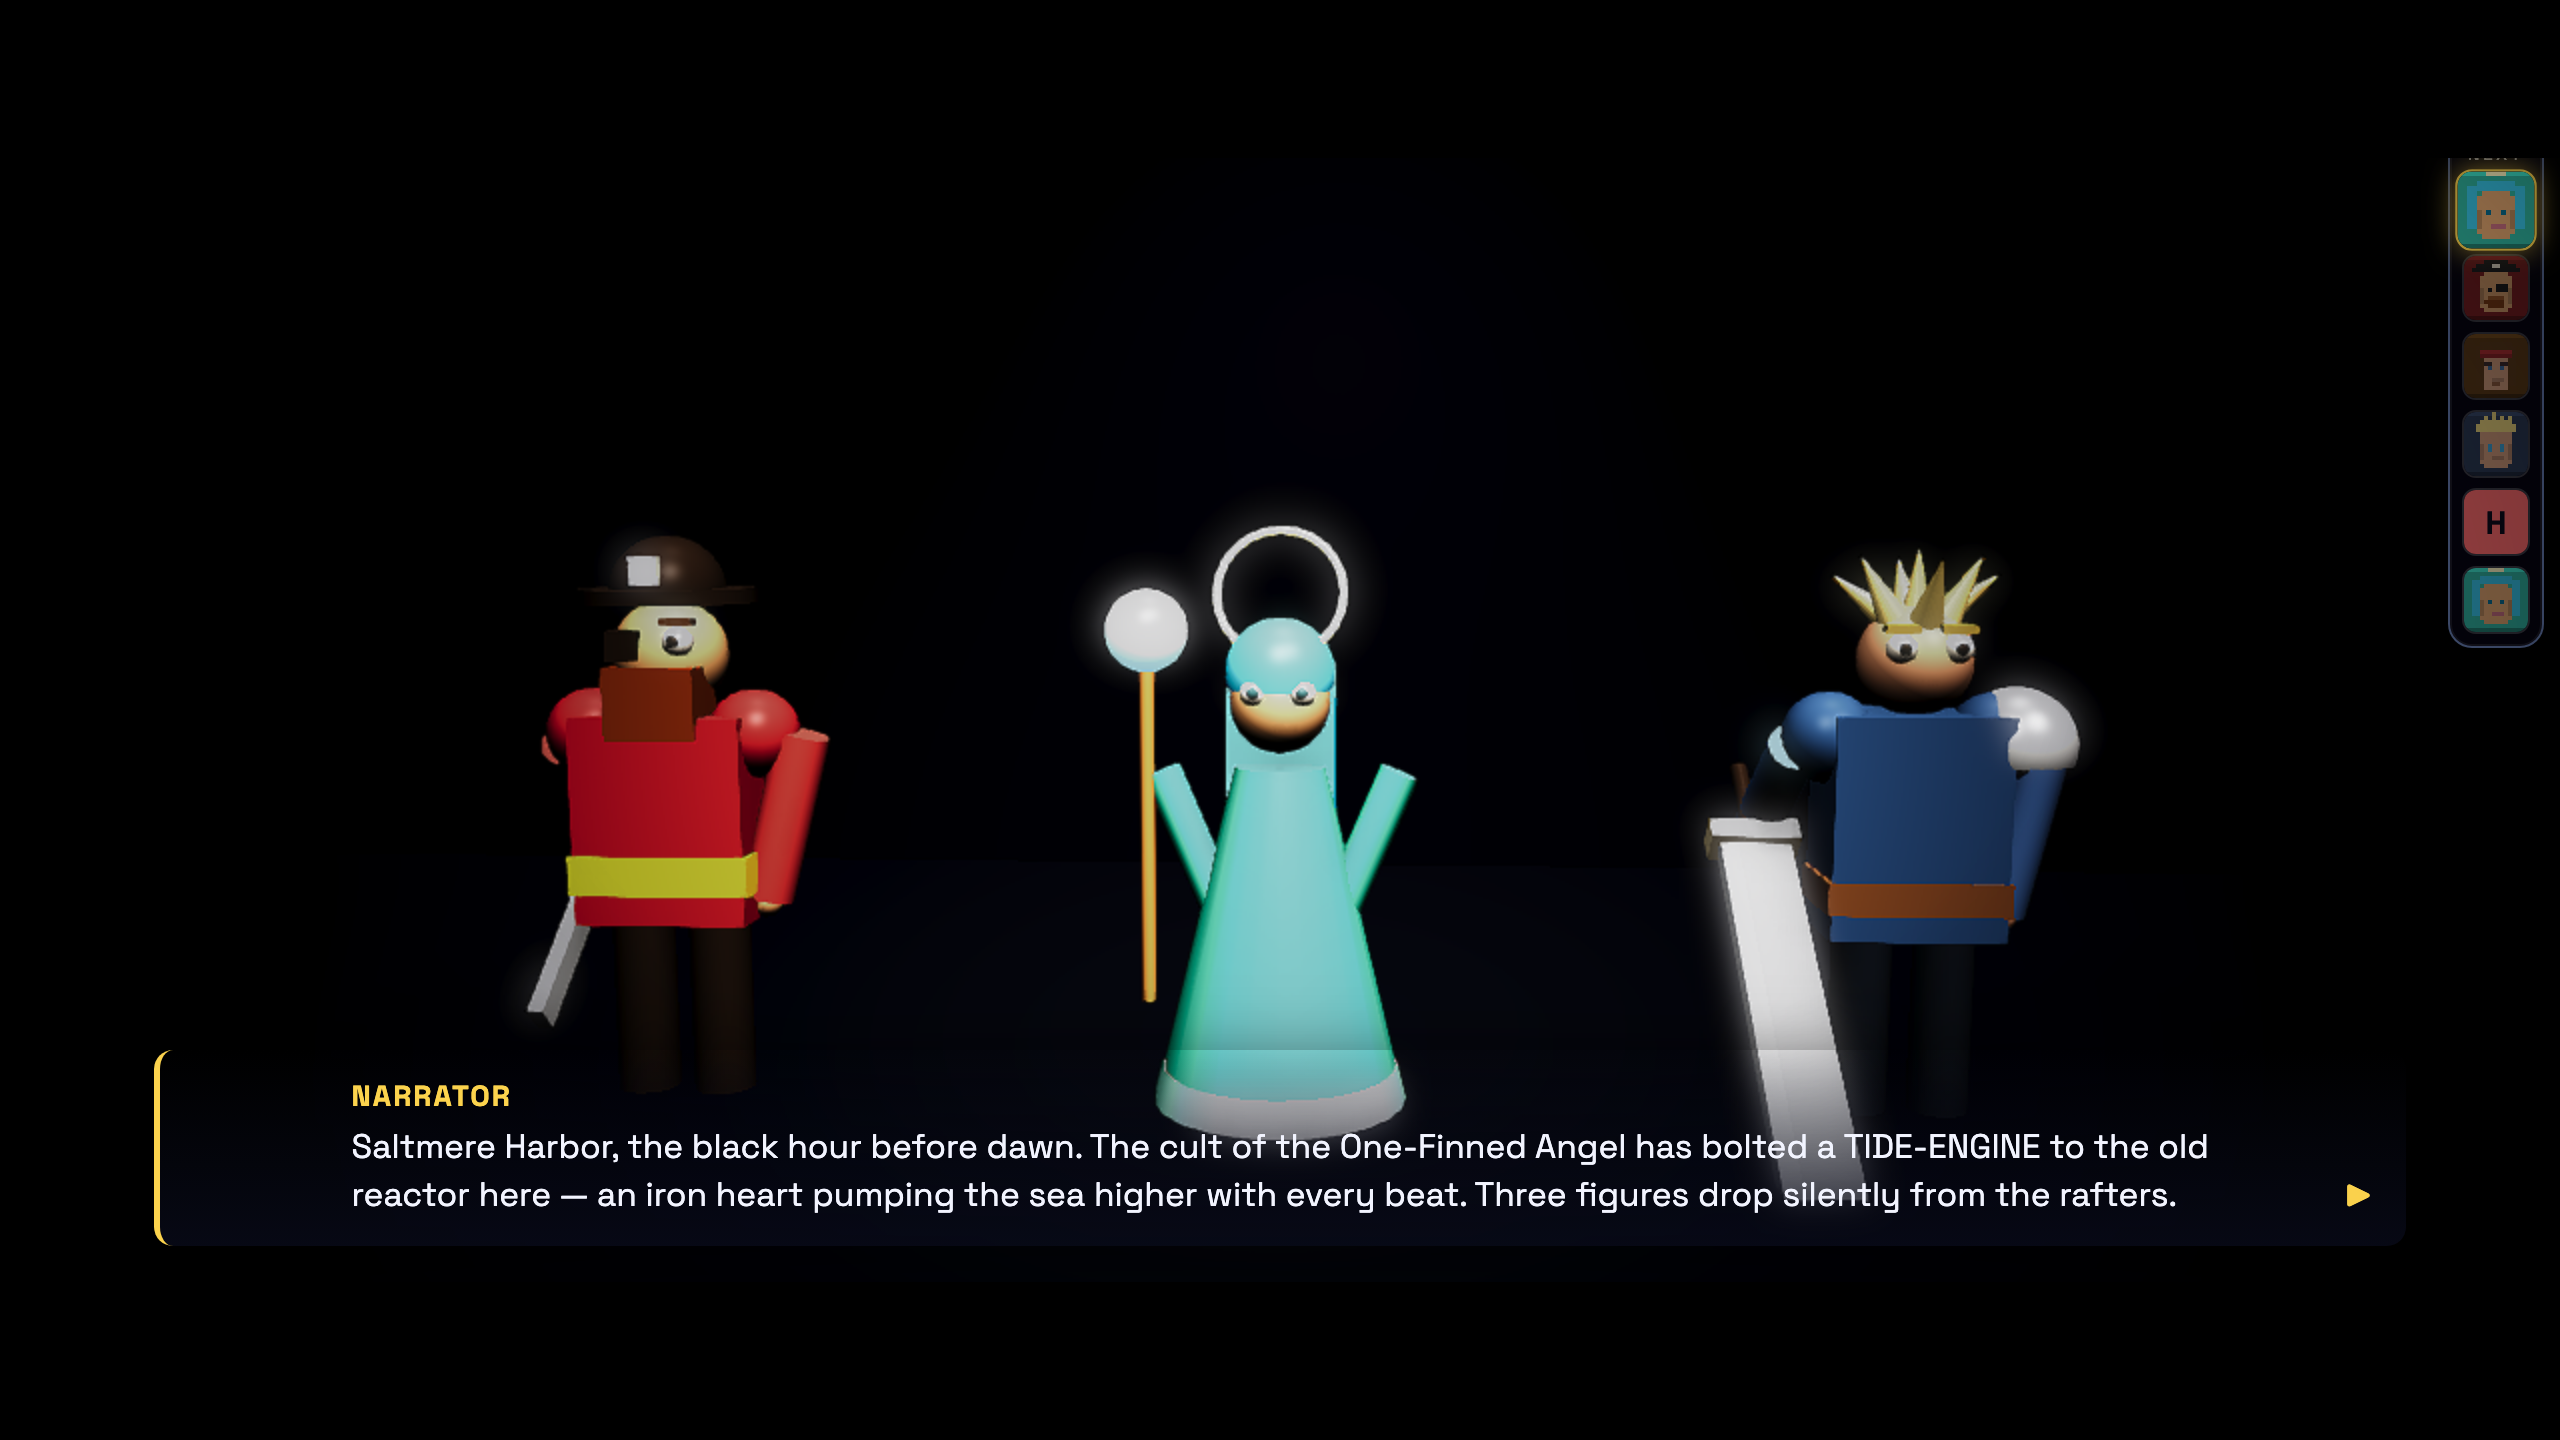
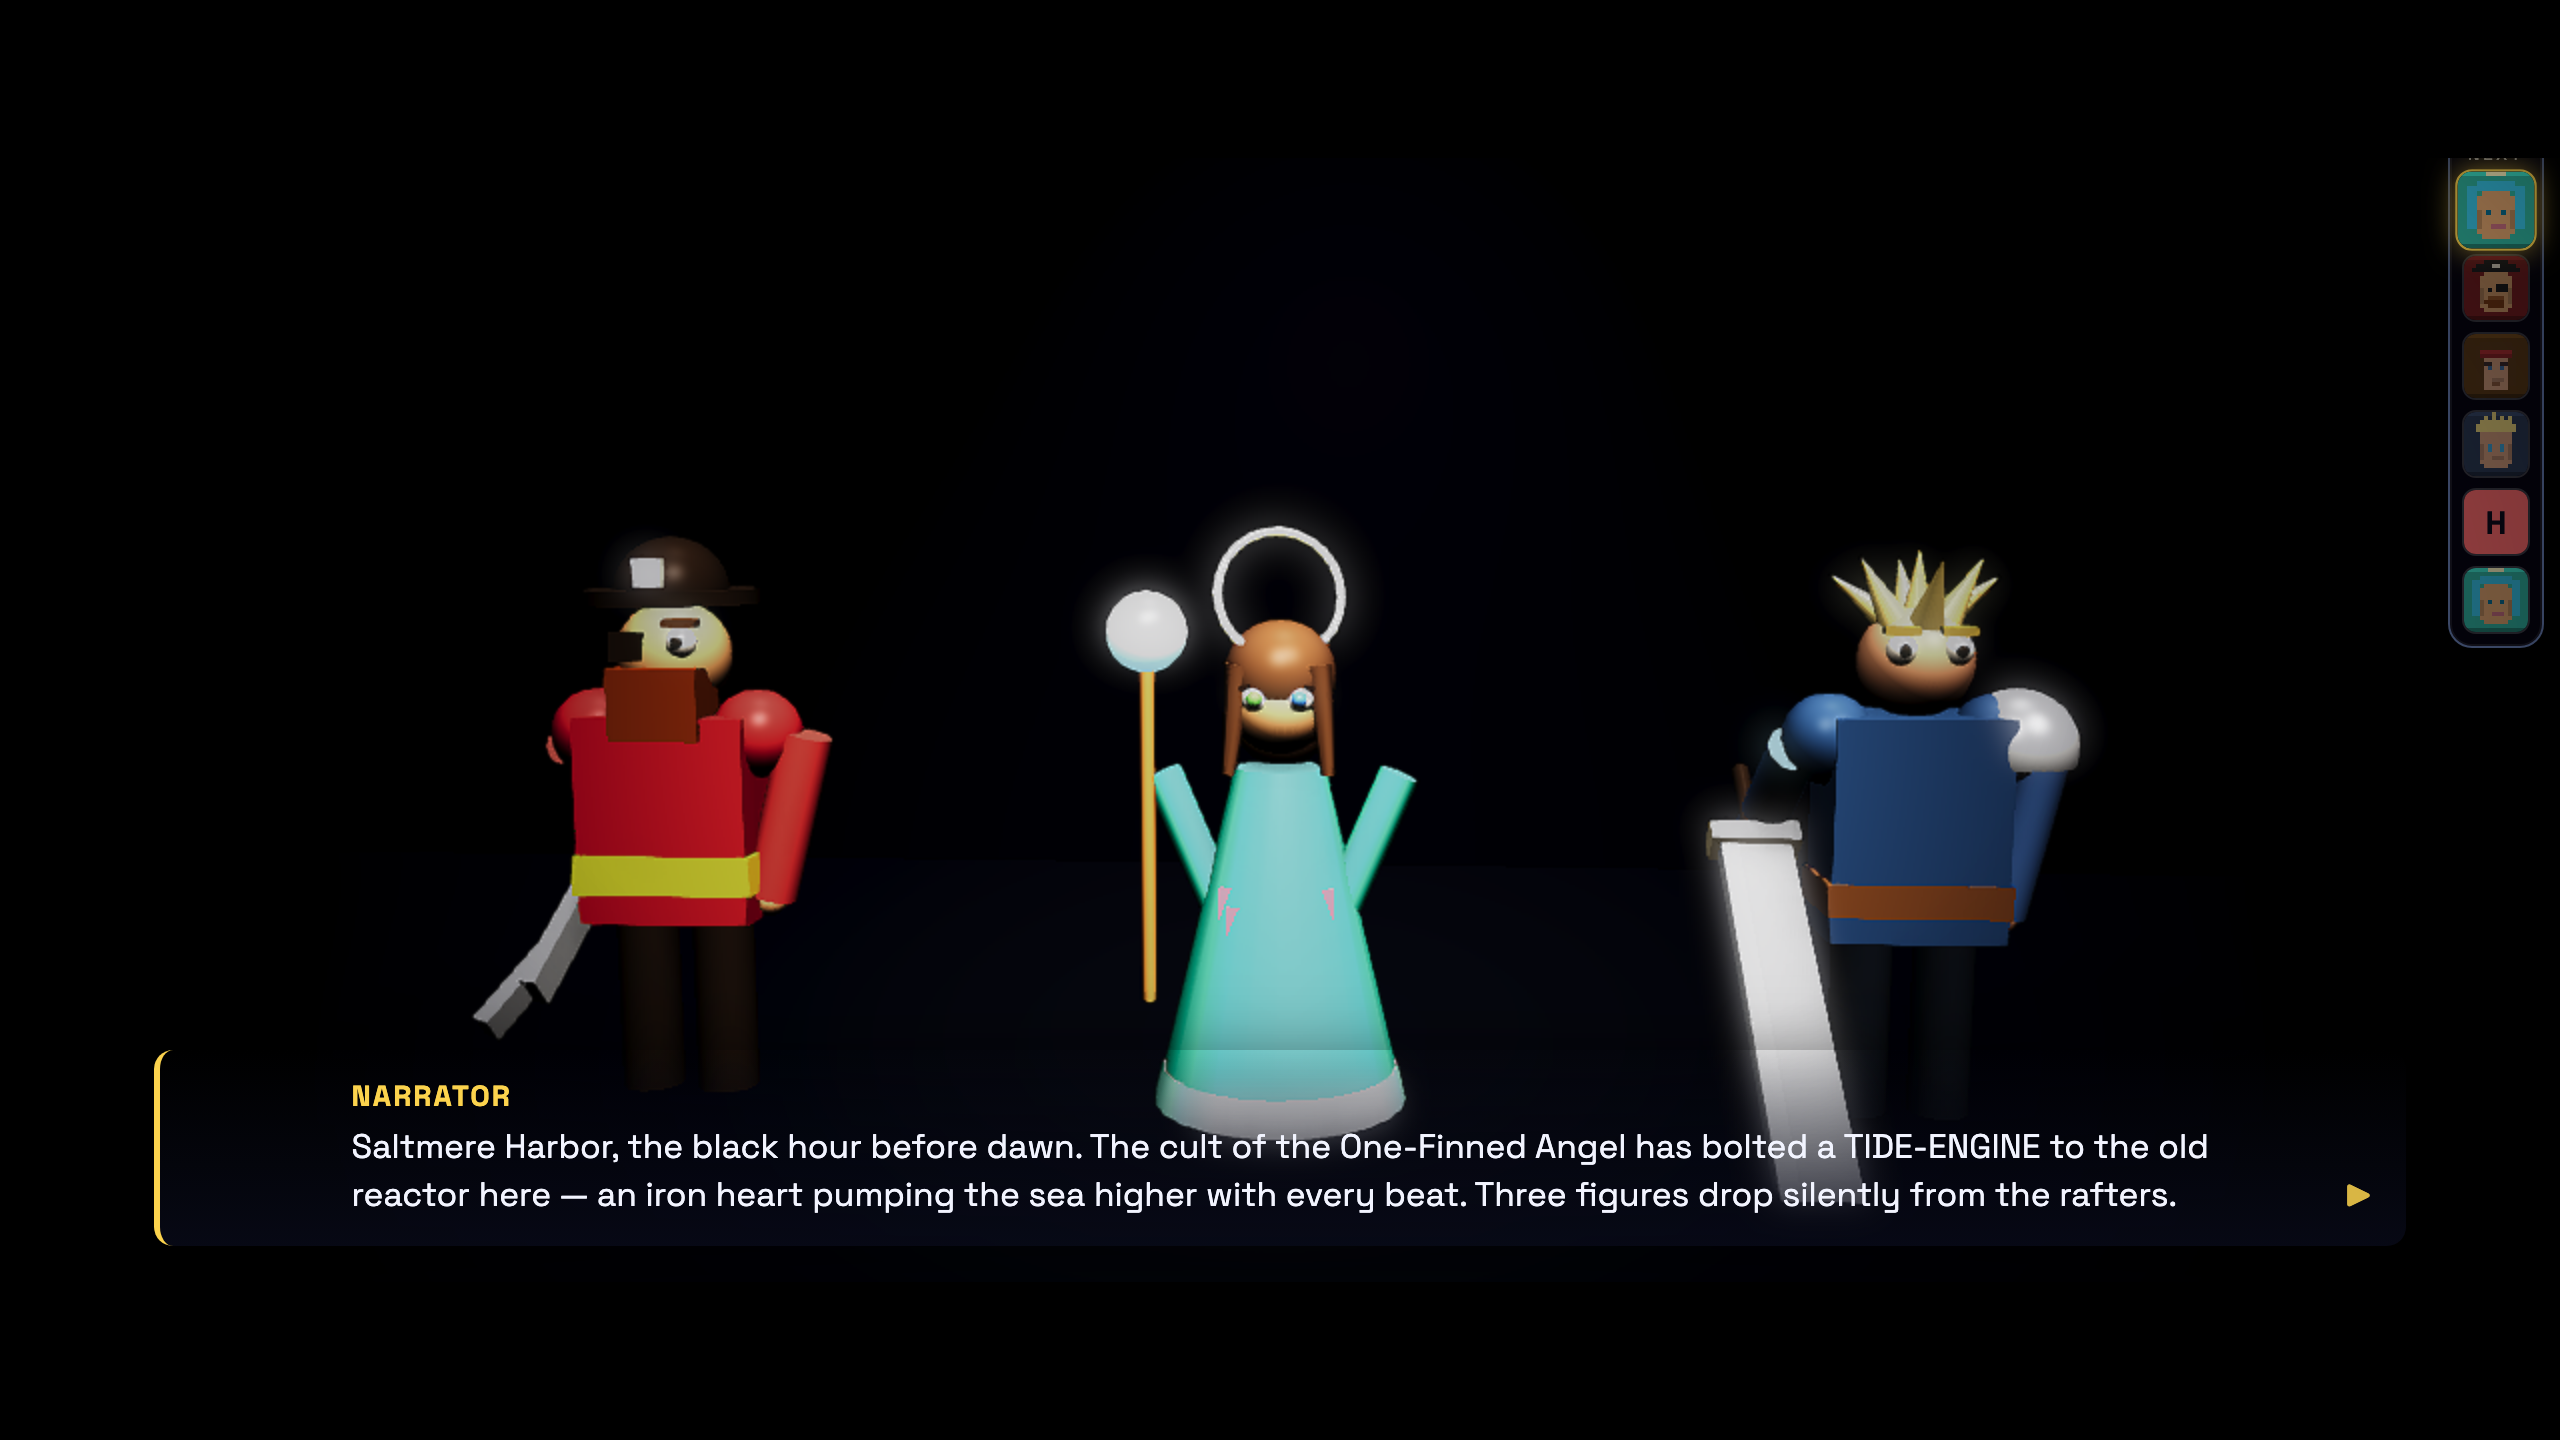
chore(capture): screenshots @ 2026-06-19T15:40:18.305Z (0 errors)

diff --git a/captures/latest/REPORT.md b/captures/latest/REPORT.md
@@ -1,9 +1,9 @@
-# Capture report — 2026-06-19T15:17:18.224Z
+# Capture report — 2026-06-19T15:40:18.305Z
 
 ## JS errors: 0
 _none — no runtime errors caught_
 
-## States captured (35)
+## States captured (37)
 - ✅ `01_overworld_tidehaven.png`
 - ✅ `02_overworld_paegina.png`
 - ✅ `03_overworld_duskmoor.png`
@@ -39,11 +39,13 @@ _none — no runtime errors caught_
 - ✅ `33_battle_sentinel.png`
 - ✅ `34_cutscene_reactor.png`
 - ✅ `35_dungeon_npc.png`
+- ✅ `36_date_mermaid.png`
+- ✅ `37_summon_mermaid.png`
 
 ## Game-state snapshot
 ```json
 {
-  "gold": 98,
+  "gold": 86,
   "pearls": 0,
   "active": [
     "pirate",
